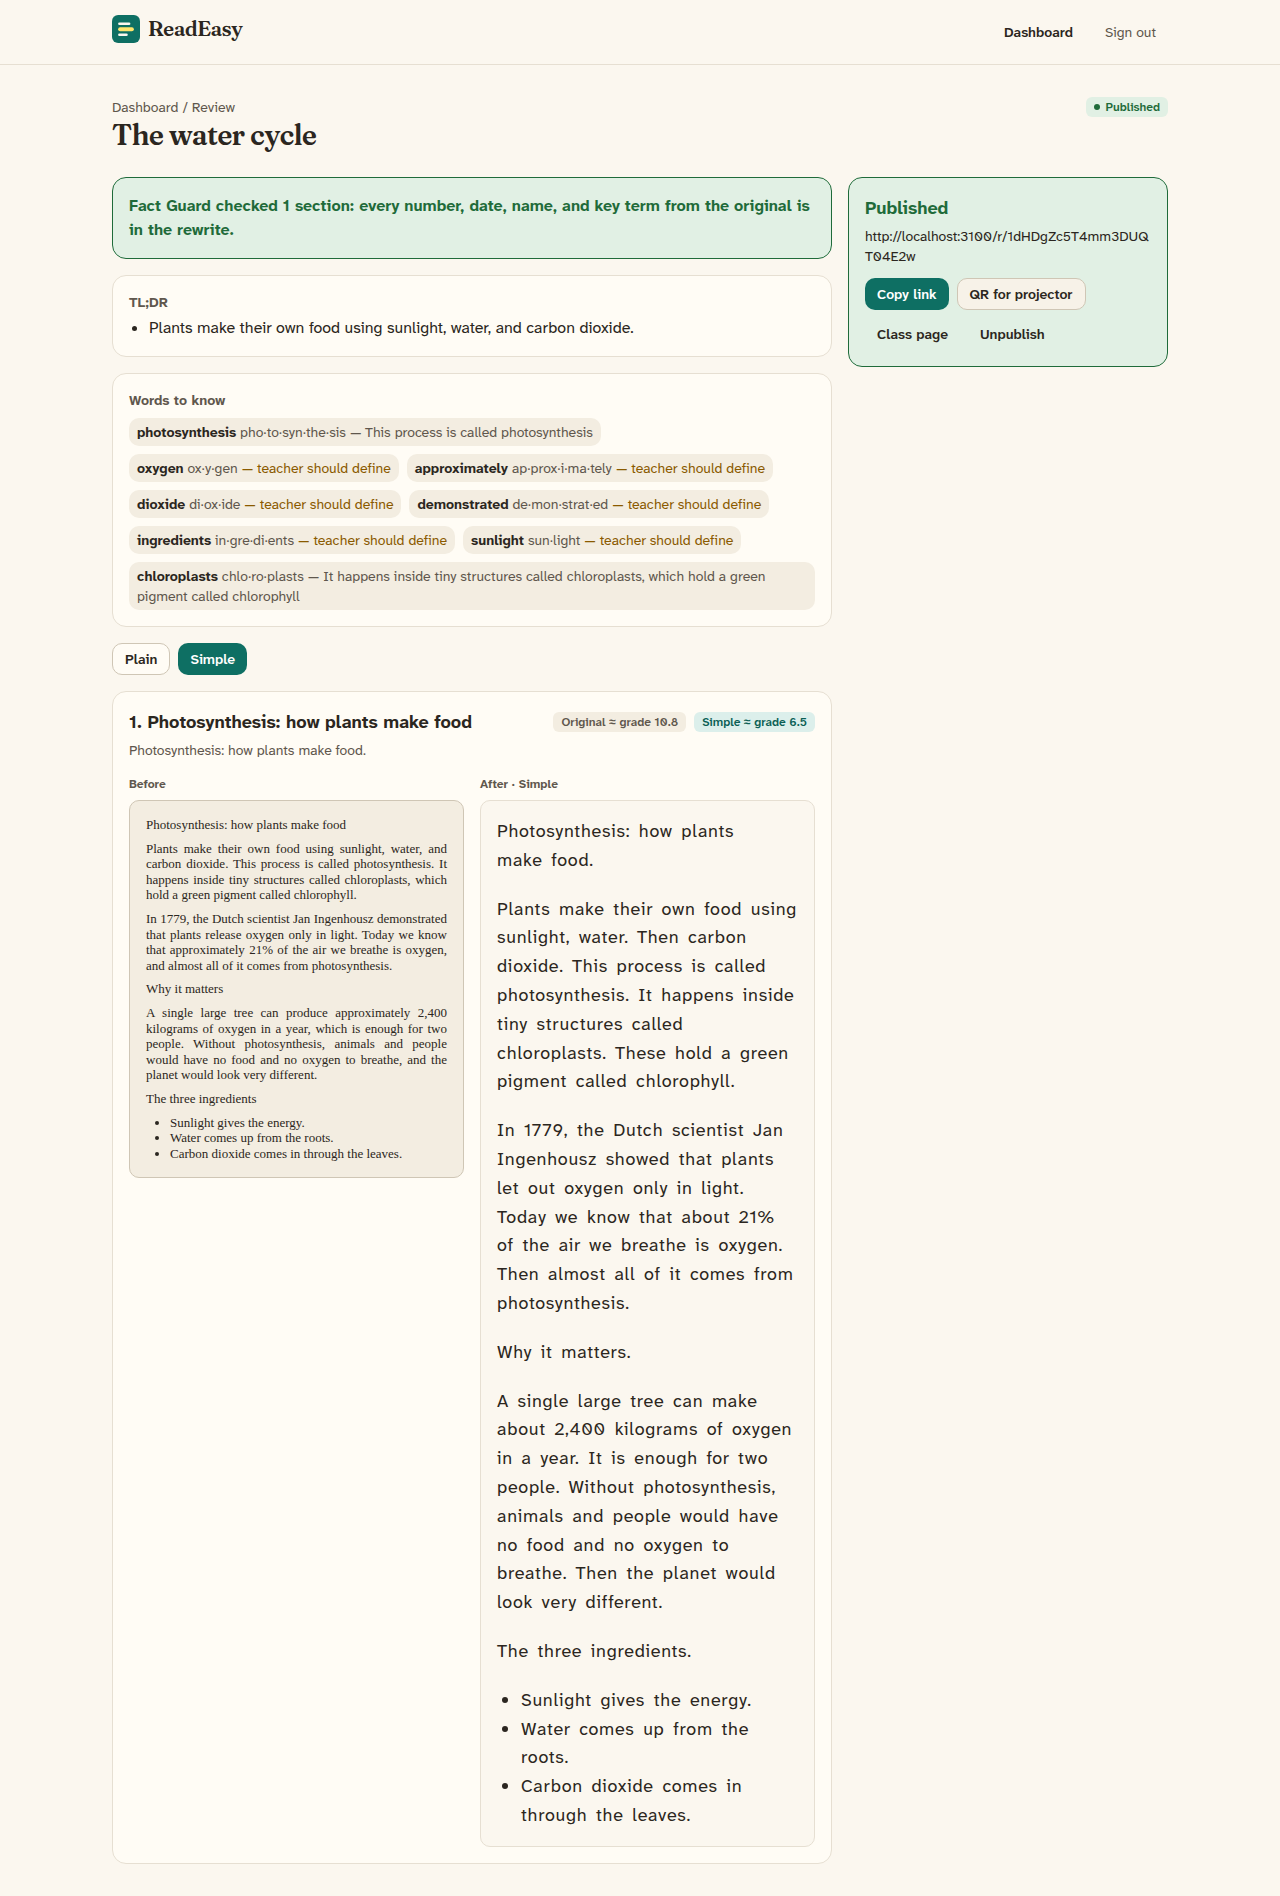
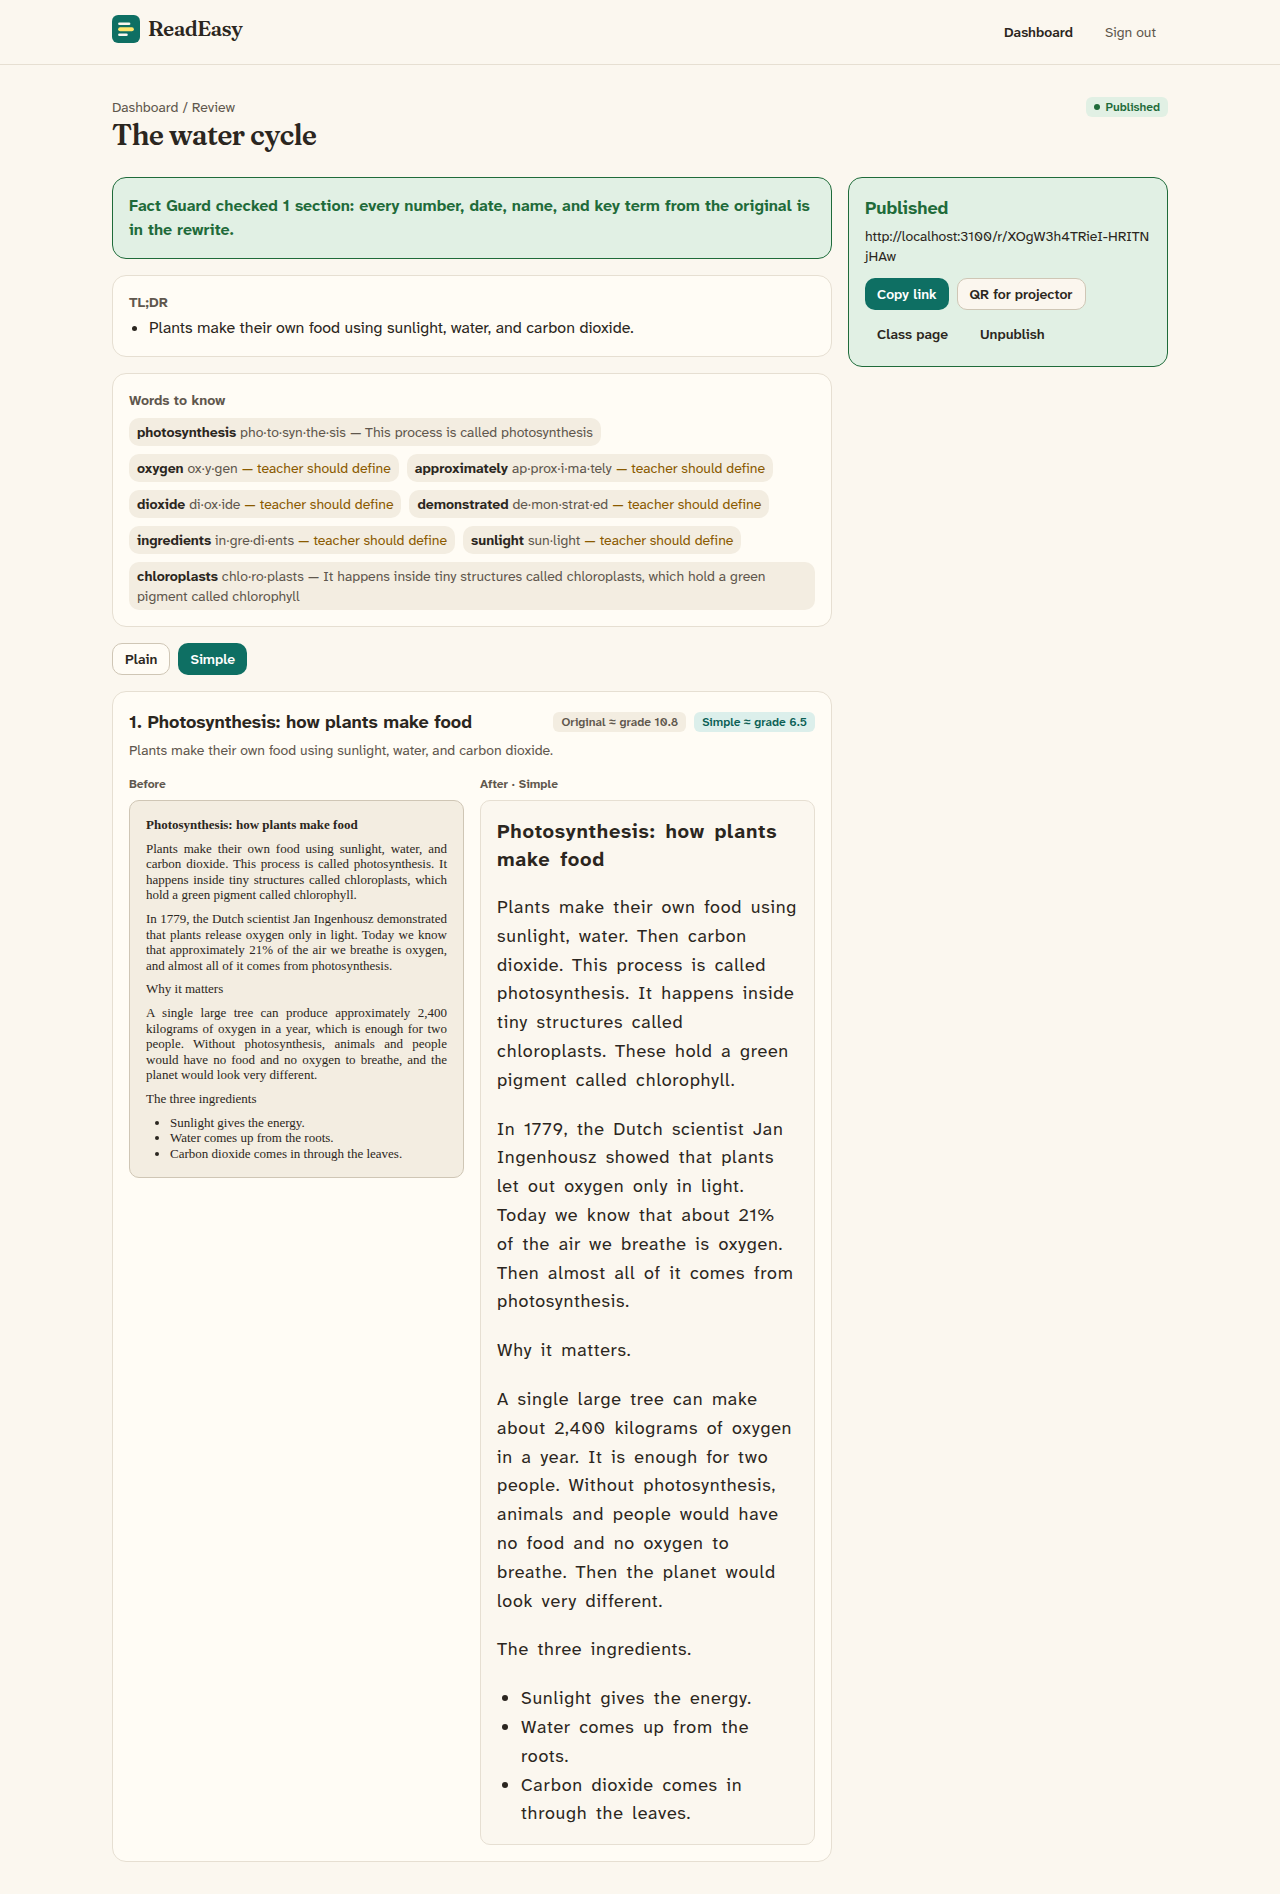
fix: reading backgrounds and class themes now actually apply
Color role tokens were resolved once at the root, so the student's
background choice and the class theme never changed the computed colors.
The color roles are now an inline theme so utilities reference the
per-element variables. Also treats a short first line as the title and
drops the redundant "In short" line from the demo.

Claude-Session: https://claude.ai/code/session_01D6wbTmJEeRBNkAtFhpGSF5

diff --git a/src/components/before-after.tsx b/src/components/before-after.tsx
@@ -16,20 +16,12 @@ import type { SectionContent } from "@/lib/content/types";
 
 // The whole adaptation runs in the browser here (no server, no account), so
 // judges can click a sample and see the result instantly.
-function firstSentence(c: SectionContent): string {
-  for (const b of c.blocks) {
-    if (b.type === "paragraph" && b.sentences[0]) return b.sentences[0];
-    if (b.type === "list" && b.items[0]?.[0]) return b.items[0][0];
-  }
-  return "";
-}
-
 function adapt(text: string, level: Level) {
   const sections = chunkIntoSections(structureText(text));
   return sections.map((s) => {
     const adapted = simplifyContent(s.original, level);
     const words = pickKeyWords(plainText(s.original), 4).map((w) => ({ word: w, syllables: syllabify(w) }));
-    return { title: s.title, original: s.original, adapted, lead: firstSentence(adapted), words };
+    return { title: s.title, original: s.original, adapted, words };
   });
 }
 
@@ -164,7 +156,6 @@ export function BeforeAfter() {
             {sections.map((s, si) => (
               <section key={si} className="mb-8">
                 <h3 className="mb-2 text-xl font-bold"><Sentence id={`${si}-t`} text={s.title} /></h3>
-                {s.lead && <p className="mb-3 rounded-md bg-accent-soft px-3 py-2 text-ink" style={{ fontSize: "0.85em" }}><span className="font-bold">In short:</span> {s.lead}</p>}
                 {s.words.length > 0 && (
                   <p className="mb-4 flex flex-wrap gap-2" style={{ fontSize: "0.8em" }} aria-label="Key words with syllables">
                     {s.words.map((w) => <span key={w.word} className="rounded-full border border-border-strong bg-surface-raised px-2.5 py-0.5"><span className="font-bold">{w.word}</span> <span className="text-ink-muted">{w.syllables.join("·")}</span></span>)}

diff --git a/src/styles/tokens.css b/src/styles/tokens.css
@@ -52,7 +52,21 @@
   /* ---------- Shadows ---------- */
   --shadow-float: 0 8px 24px rgb(43 38 32 / 0.12);
 
-  /* ---------- Color roles (resolved from the mode variables below) ---------- */
+  /* ---------- Breakpoints ---------- */
+  --breakpoint-sm: 40rem;
+  --breakpoint-md: 48rem;
+  --breakpoint-lg: 64rem;
+  --breakpoint-xl: 80rem;
+
+  /* ---------- Content widths ---------- */
+  --container-teacher: 70rem;
+  --container-form: 30rem;
+}
+
+
+/* Color roles must be "inline" so utilities emit var(--surface) etc. and pick
+ * up per-element overrides (reading backgrounds, class themes, dark mode). */
+@theme inline {
   --color-surface: var(--surface);
   --color-surface-raised: var(--surface-raised);
   --color-surface-sunken: var(--surface-sunken);
@@ -76,15 +90,6 @@
   --color-danger-soft: var(--danger-soft);
   --color-on-danger: var(--on-danger);
 
-  /* ---------- Breakpoints ---------- */
-  --breakpoint-sm: 40rem;
-  --breakpoint-md: 48rem;
-  --breakpoint-lg: 64rem;
-  --breakpoint-xl: 80rem;
-
-  /* ---------- Content widths ---------- */
-  --container-teacher: 70rem;
-  --container-form: 30rem;
 }
 
 /* ---------- Light mode (default) ---------- */

diff --git a/src/lib/text/chunk.ts b/src/lib/text/chunk.ts
@@ -29,10 +29,15 @@ function looksLikeHeading(line: string, next: string | undefined): boolean {
 export function structureText(text: string): Block[] {
   const blocks: Block[] = [];
   const chunks = text.replace(/\r\n?/g, "\n").split(/\n{2,}/).map((c) => c.trim()).filter(Boolean);
-  for (const chunk of chunks) {
+  for (const [ci, chunk] of chunks.entries()) {
     const lines = chunk.split("\n").map((l) => l.trim()).filter(Boolean);
     if (!lines.length) continue;
     const first = lines[0]!;
+    // A short first line with no end punctuation, on its own, is the title.
+    if (ci === 0 && lines.length === 1 && chunks.length > 1 && first.split(/\s+/).length <= 12 && !/[.!?]$/.test(first)) {
+      blocks.push({ type: "heading", level: 2, text: sentenceCase(first.replace(/^#+\s*/, "")) });
+      continue;
+    }
     const md = first.match(/^(#{1,3})\s+(.+)$/);
     if (md && lines.length === 1) {
       blocks.push({ type: "heading", level: md[1]!.length >= 3 ? 3 : 2, text: sentenceCase(md[2]!.trim()) });
